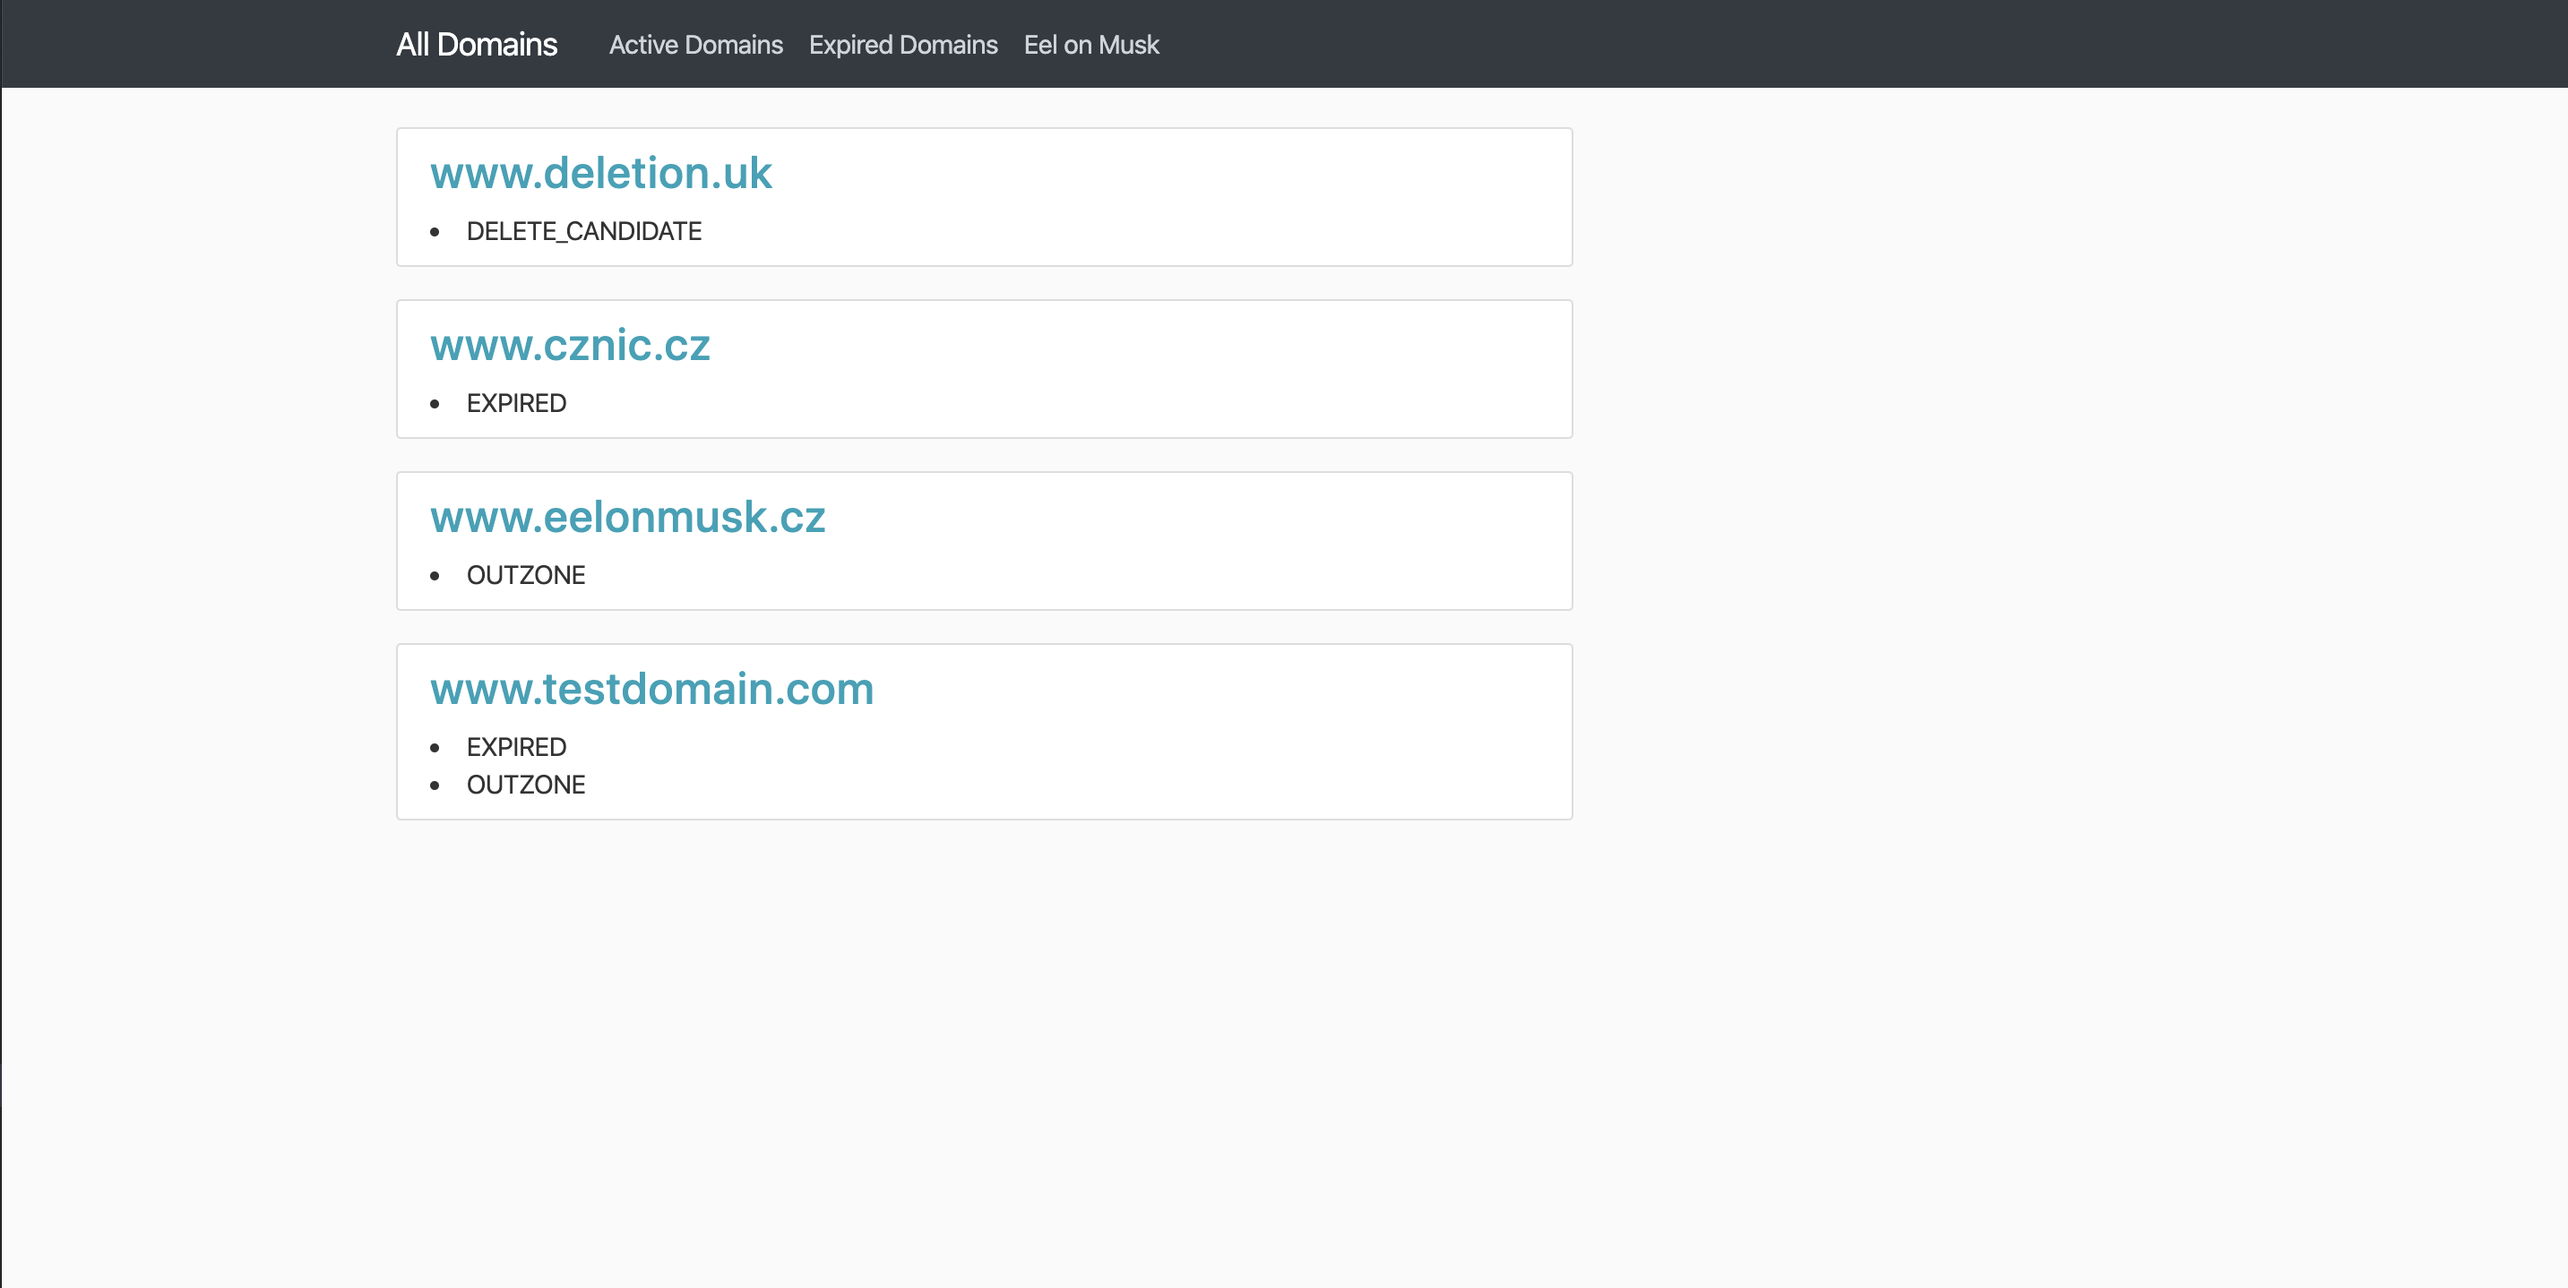
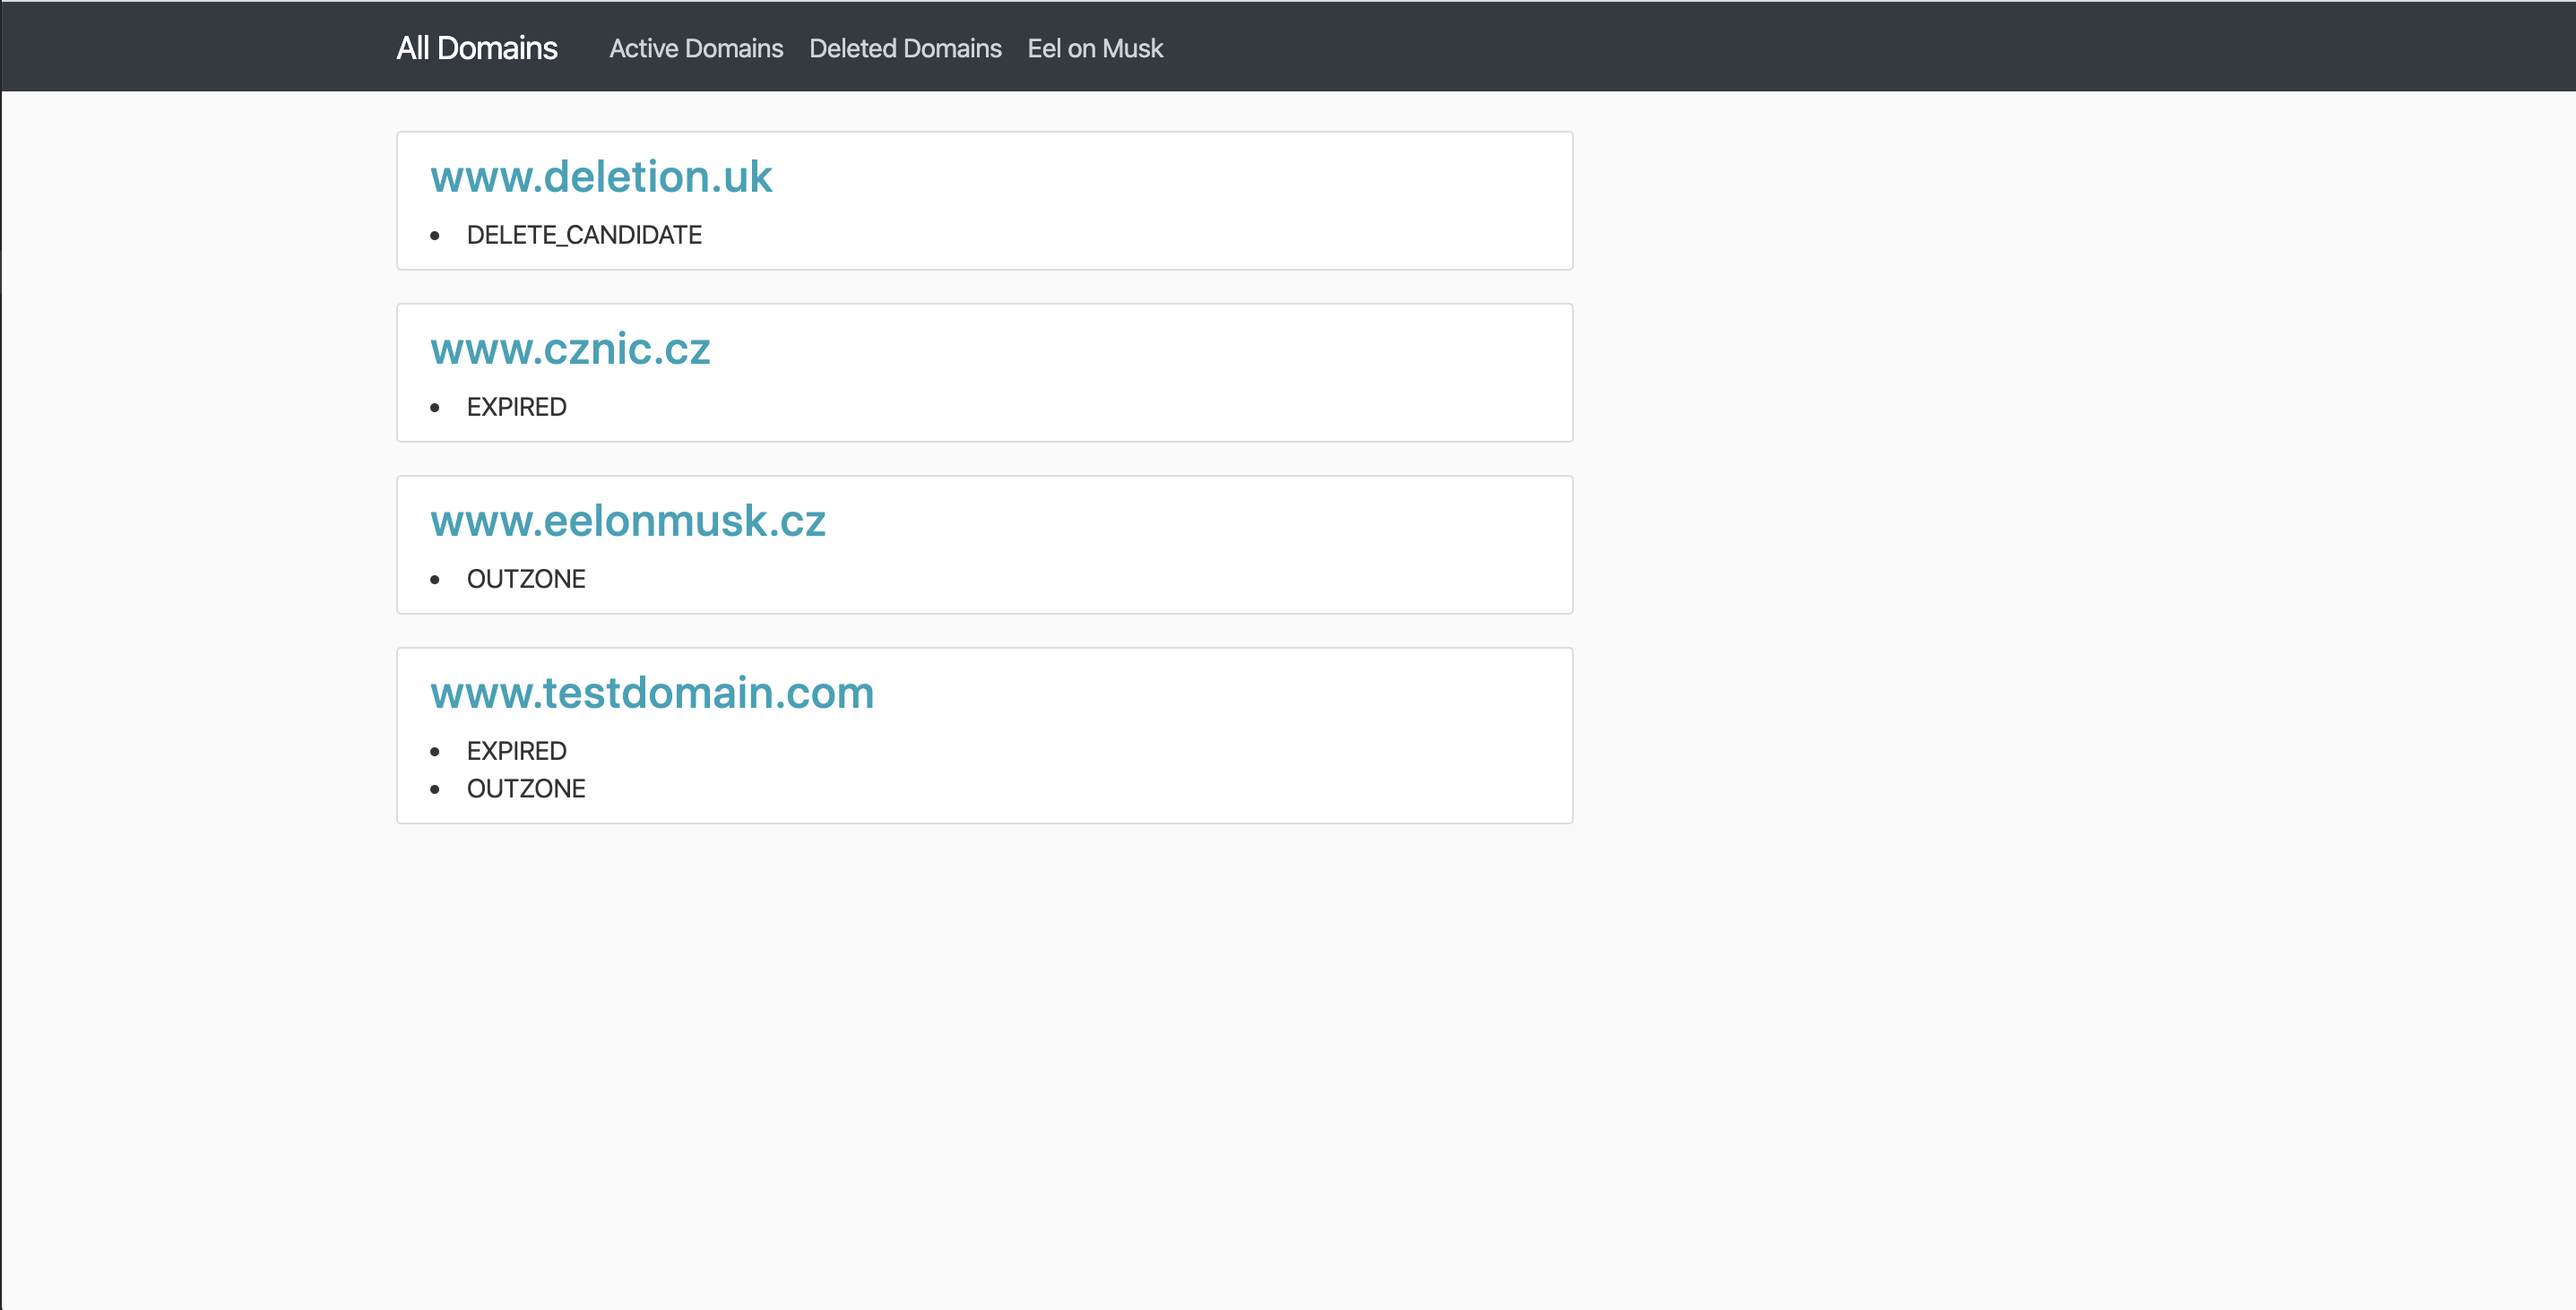
Changed Tab names

diff --git a/domains/templates/base.html b/domains/templates/base.html
@@ -25,7 +25,7 @@
           <div class="collapse navbar-collapse" id="navbarToggle">
             <div class="navbar-nav mr-auto">
               <a class="nav-item nav-link" href="{% url 'existing-domains' %}">Active Domains</a>
-              <a class="nav-item nav-link" href="{% url 'expired-domains' %}">Expired Domains</a>
+              <a class="nav-item nav-link" href="{% url 'deleted-domains' %}">Deleted Domains</a>
               <a class="nav-item nav-link" href="{% url 'why-not' %}">Eel on Musk</a>
             </div>
           </div>

diff --git a/domains/views.py b/domains/views.py
@@ -23,10 +23,10 @@ class ExistingDomainListView(DomainListView):
         return self.queryset.filter(date_deletion__gte=timezone.now())
 
 
-# List view for only expired domains
-class ExpiredDomainListView(DomainListView):
+# List view for only deleted domains
+class DeletedDomainListView(DomainListView):
     """Lists existing Domains"""
-    template_name = 'expired-domains.html'
+    template_name = 'deleted-domains.html'
 
     def get_queryset(self):
         return self.queryset.filter(date_deletion__lt=timezone.now())

diff --git a/domains/urls.py b/domains/urls.py
@@ -13,9 +13,9 @@ urlpatterns = [
         name='existing-domains'
     ),
     path(
-        'expired/',
-        views.ExpiredDomainListView.as_view(),
-        name='expired-domains'
+        'deleted/',
+        views.DeletedDomainListView.as_view(),
+        name='deleted-domains'
     ),
     path(
         'domain/<int:pk>/',

diff --git a/README.md b/README.md
@@ -8,7 +8,7 @@
 - <b>Web app:</b>
   - "All domains" list (displays domain name + flags)
   - "Active domains" list (displays domain name + flags)
-  - "Expired domains" list (displays domain name + flags)
+  - "Deleted domains" list (displays domain name + flags)
   - "Eel on Musk"
   - Detail page for each domain
     - Displays details like FQDN, creation date, expiration date, deletion date
